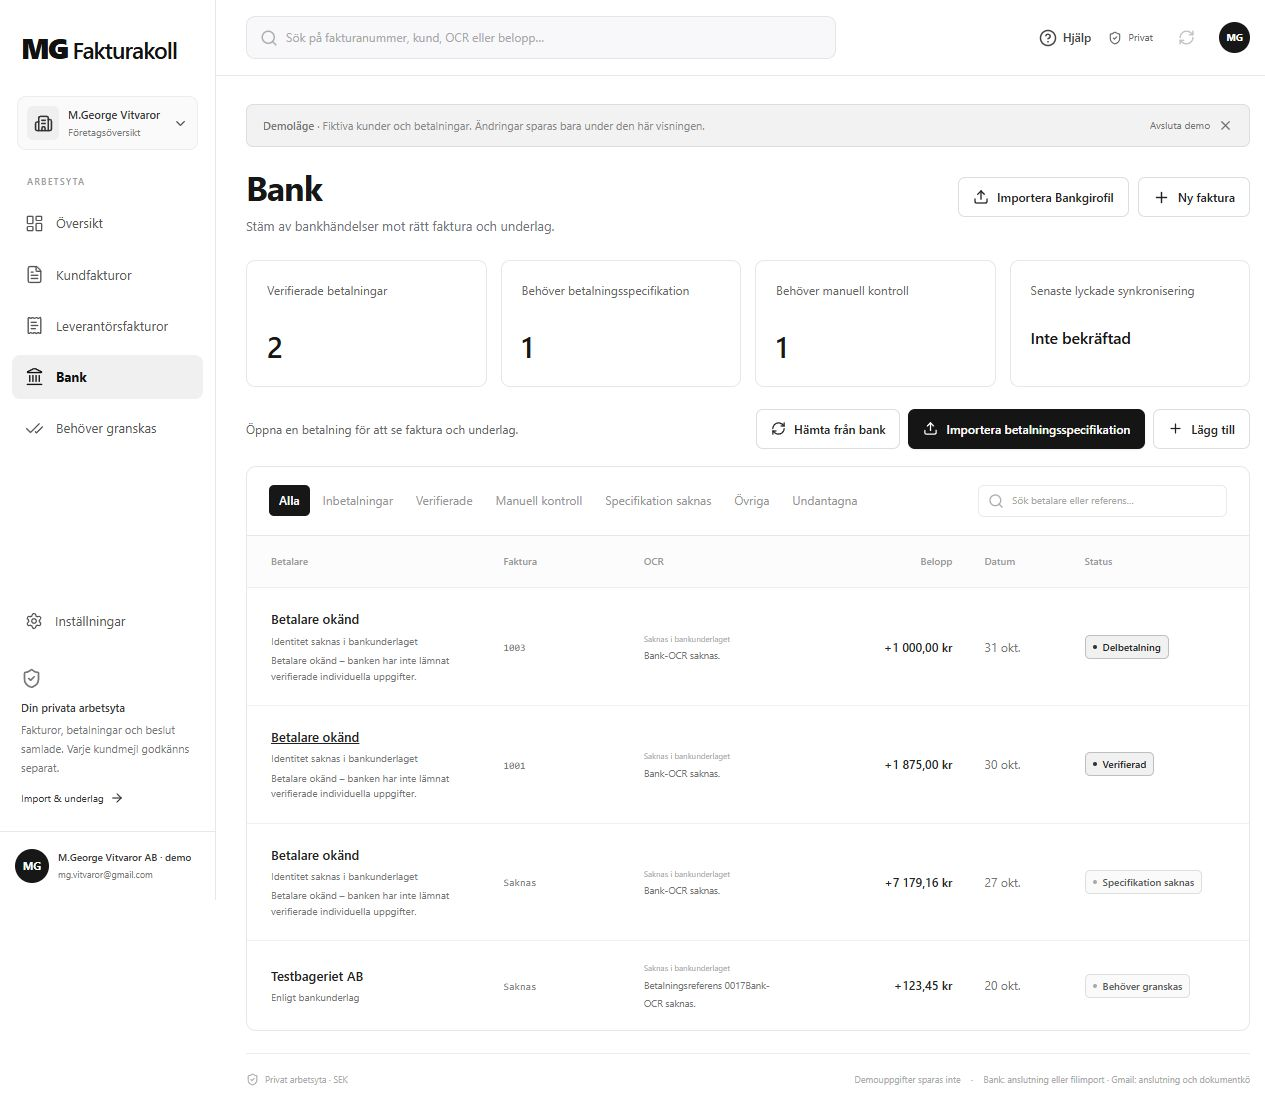
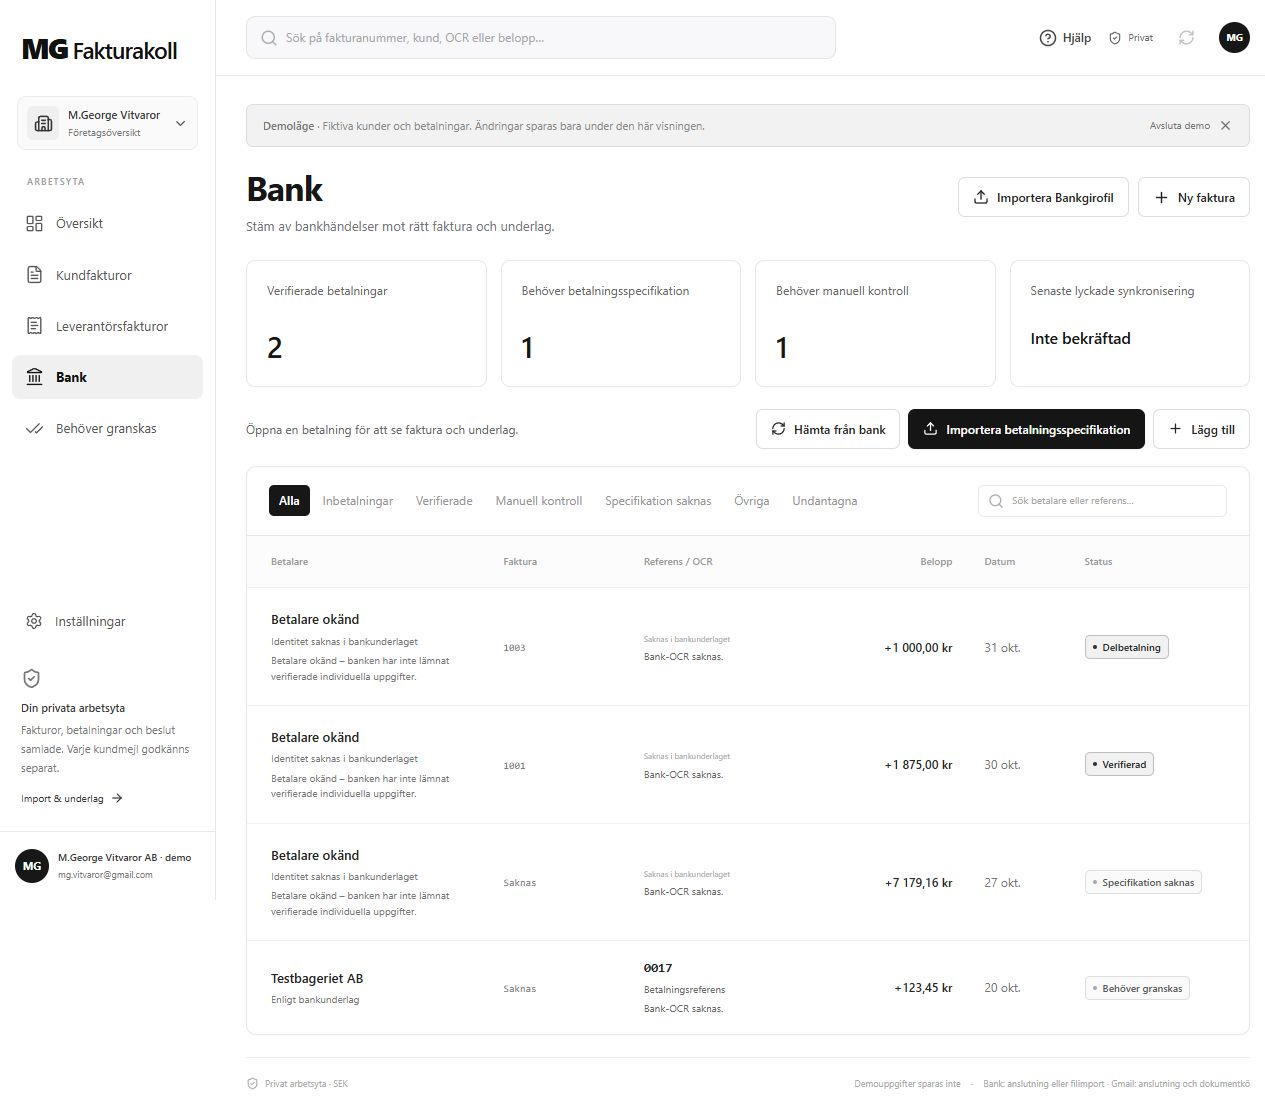
Make bank payment references prominent on desktop and mobile

diff --git a/sites/components/bank-payments.tsx b/sites/components/bank-payments.tsx
@@ -3,6 +3,9 @@ import {money,type State,type Transaction} from '@/lib/domain';
 import {bankPaymentCounts,bankPaymentView} from '@/lib/payment-presentation';
 type Props={state:State;transactions:Transaction[];candidates?:Record<string,{number:string;party?:string}[]>;open:(id:string)=>void};
 const date=(value:string)=>new Intl.DateTimeFormat('sv-SE',{day:'numeric',month:'short',timeZone:'Europe/Stockholm'}).format(new Date(value+'T12:00:00Z'));
+function BankReference({view}:{view:ReturnType<typeof bankPaymentView>}){
+ return <span className="bank-reference">{view.reference.value?<><strong className="mono">{view.reference.value}</strong><span className="bank-reference-label">{view.referenceLabel}</span></>:<span className="cell-note">Saknas i bankunderlaget</span>}{!view.reference.ocr&&<span className="bank-reference-note">Bank-OCR saknas.</span>}</span>;
+}
 export function BankPaymentSummary({state,lastSynced}:{state:State;lastSynced?:string}){
  const counts=bankPaymentCounts(state),synced=lastSynced&&Number.isFinite(Date.parse(lastSynced))?new Intl.DateTimeFormat('sv-SE',{dateStyle:'short',timeStyle:'short',timeZone:'Europe/Stockholm'}).format(new Date(lastSynced)):'Inte bekräftad';
  return <dl className="bank-summary" aria-label="Översikt över bankbetalningar"><div><dt>Verifierade betalningar</dt><dd>{counts.verified}</dd></div><div><dt>Behöver betalningsspecifikation</dt><dd>{counts.specifications}</dd></div><div><dt>Behöver manuell kontroll</dt><dd>{counts.review}</dd></div><div><dt>Senaste lyckade synkronisering</dt><dd className="bank-sync-time">{synced}</dd></div></dl>;
@@ -11,7 +14,7 @@ export default function BankPayments({state,transactions,candidates={},open}:Pro
  if(!transactions.length)return <p className="bank-filter-empty">Inga bankhändelser matchar ditt filter.</p>;
  const rows=transactions.map(t=>{const view=bankPaymentView(state,t,candidates[t.id]);return {t,view,payerNote:view.payerKnown?'':`${t.amount<0?'Mottagare':'Betalare'} okänd – banken har inte lämnat verifierade individuella uppgifter.`,invoiceNote:!view.reference.ocr&&!view.invoiceNumbers.length&&view.possible.length?`Fakturaförslag: ${view.possible.join(', ')} – inte verifierat av bankens OCR.`:''};});
  return <>
-  <div className="bank-desktop-list"><table className="bank-payments-table"><thead><tr><th>Betalare</th><th>Faktura</th><th>OCR</th><th className="numeric">Belopp</th><th>Datum</th><th>Status</th></tr></thead><tbody>{rows.map(({t,view,payerNote,invoiceNote})=><tr key={t.id}><td><button className="bank-open-payment" onClick={()=>open(t.id)} aria-label={`Visa betalning: ${view.payer}, ${money(t.amount)}, ${date(t.date)}`}><strong>{view.payer}</strong><small>{t.parentId?'Del av samlingsinsättning':view.payerKnown?'Enligt bankunderlag':t.verification?'Manuellt kompletterad':'Identitet saknas i bankunderlaget'}</small>{payerNote&&<small>{payerNote}</small>}</button></td><td><span className="mono">{view.invoice}</span>{invoiceNote&&<small>{invoiceNote}</small>}</td><td><span className={view.reference.ocr?'mono':'cell-note'}>{view.reference.ocr||'Saknas i bankunderlaget'}</span>{view.reference.value&&!view.reference.ocr&&<small>{view.referenceLabel} {view.reference.value}</small>}{!view.reference.ocr&&<small>Bank-OCR saknas.</small>}</td><td className="numeric bank-amount">{t.amount>0?'+':''}{money(t.amount)}</td><td>{date(t.date)}</td><td><span className={`bank-status ${view.verified?'is-verified':''}`}>{view.status}</span></td></tr>)}</tbody></table></div>
-  <div className="bank-mobile-list" aria-label="Bankbetalningar">{rows.map(({t,view,payerNote,invoiceNote})=><button className="bank-payment-card" key={t.id} onClick={()=>open(t.id)}><span className="bank-card-heading"><strong>{view.payer}</strong><strong>{t.amount>0?'+':''}{money(t.amount)}</strong></span>{payerNote&&<small>{payerNote}</small>}<span className="bank-card-reference">Faktura {view.invoice}{invoiceNote&&<small>{invoiceNote}</small>}<small>OCR {view.reference.ocr||'Saknas i bankunderlaget'}</small>{view.reference.value&&!view.reference.ocr&&<small>{view.referenceLabel} {view.reference.value}</small>}{!view.reference.ocr&&<small>Bank-OCR saknas.</small>}</span><span className="bank-payment-footer"><time dateTime={t.date}>{date(t.date)}</time><span className={`bank-status ${view.verified?'is-verified':''}`}>{view.status}</span></span></button>)}</div>
+  <div className="bank-desktop-list"><table className="bank-payments-table"><thead><tr><th>Betalare</th><th>Faktura</th><th>Referens / OCR</th><th className="numeric">Belopp</th><th>Datum</th><th>Status</th></tr></thead><tbody>{rows.map(({t,view,payerNote,invoiceNote})=><tr key={t.id}><td><button className="bank-open-payment" onClick={()=>open(t.id)} aria-label={`Visa betalning: ${view.payer}, ${money(t.amount)}, ${date(t.date)}`}><strong>{view.payer}</strong><small>{t.parentId?'Del av samlingsinsättning':view.payerKnown?'Enligt bankunderlag':t.verification?'Manuellt kompletterad':'Identitet saknas i bankunderlaget'}</small>{payerNote&&<small>{payerNote}</small>}</button></td><td><span className="mono">{view.invoice}</span>{invoiceNote&&<small>{invoiceNote}</small>}</td><td><BankReference view={view}/></td><td className="numeric bank-amount">{t.amount>0?'+':''}{money(t.amount)}</td><td>{date(t.date)}</td><td><span className={`bank-status ${view.verified?'is-verified':''}`}>{view.status}</span></td></tr>)}</tbody></table></div>
+  <div className="bank-mobile-list" aria-label="Bankbetalningar">{rows.map(({t,view,payerNote,invoiceNote})=><button className="bank-payment-card" key={t.id} onClick={()=>open(t.id)}><span className="bank-card-heading"><strong>{view.payer}</strong><strong>{t.amount>0?'+':''}{money(t.amount)}</strong></span>{payerNote&&<small>{payerNote}</small>}<span className="bank-card-reference">Faktura {view.invoice}{invoiceNote&&<small>{invoiceNote}</small>}<BankReference view={view}/></span><span className="bank-payment-footer"><time dateTime={t.date}>{date(t.date)}</time><span className={`bank-status ${view.verified?'is-verified':''}`}>{view.status}</span></span></button>)}</div>
  </>;
 }

diff --git a/sites/app/globals.css b/sites/app/globals.css
@@ -39,7 +39,8 @@ main{padding:28px 30px 0;max-width:1760px}h1{font-size:34px;line-height:1.18;fon
 
 .bank-raw-data{white-space:pre-wrap;overflow-wrap:anywhere;max-height:28rem;overflow:auto;font-size:.78rem;background:#f5f5f5;padding:1rem;border-radius:.5rem;}
 
-/* Bank payments: five desktop columns and a card view on small screens. */
+/* Bank payments: six desktop columns and a card view on small screens. */
+.bank-reference{display:grid;gap:4px}.bank-reference>.mono{font-size:13px;line-height:1.4;color:#202020;font-weight:600}.bank-reference-label,.bank-reference-note{font-size:10px;line-height:1.5;color:#666}.bank-card-reference>.bank-reference{margin-top:8px}
 .bank-summary{display:grid;grid-template-columns:repeat(4,minmax(0,1fr));gap:14px;margin:0 0 22px}.bank-summary>div{background:#fff;border:1px solid var(--line);border-radius:9px;padding:20px;min-width:0}.bank-summary dt{font-size:12px;color:#666;min-height:37px;line-height:1.5}.bank-summary dd{font-size:29px;line-height:1.3;font-weight:600;letter-spacing:-.8px;margin:10px 0 0;color:#171717}.bank-summary .bank-sync-time{font-size:16px;letter-spacing:-.2px;white-space:normal}.bank-actions{display:flex;align-items:center;gap:8px;flex-wrap:wrap;margin:0 0 17px}.bank-actions>p{font-size:12px;color:#666;margin-right:auto}.bank-payment-panel .table-toolbar{align-items:flex-start;flex-wrap:wrap}.bank-payment-panel .filter-tabs{flex-wrap:wrap}.bank-desktop-list{width:100%;overflow:hidden}.bank-payments-table{white-space:normal;table-layout:fixed}.bank-payments-table th,.bank-payments-table td{padding:18px 16px;vertical-align:middle}.bank-payments-table th:first-child,.bank-payments-table td:first-child{width:24%;padding-left:24px}.bank-payments-table th:nth-child(2){width:14%}.bank-payments-table th:nth-child(3){width:16%}.bank-payments-table th:nth-child(4){width:18%}.bank-payments-table th:nth-child(5){width:10%}.bank-payments-table th:nth-child(6){width:18%}.bank-payments-table td{overflow-wrap:anywhere}.bank-open-payment{display:block;text-align:left;width:100%;padding:3px 0;border-radius:4px}.bank-open-payment strong{display:block;font-size:13px;color:#202020;font-weight:600}.bank-open-payment small{display:block;font-size:10px;color:#777;margin-top:4px}.bank-open-payment:hover strong{text-decoration:underline}.bank-payments-table .bank-amount{font-weight:600;white-space:nowrap;color:#252525}.bank-status{display:inline-flex;align-items:center;gap:6px;max-width:100%;border:1px solid #dedede;border-radius:5px;padding:4px 7px;font-size:10px;font-weight:500;line-height:1.4;color:#555;background:#fafafa;white-space:normal}.bank-status:before{content:'';width:4px;height:4px;border-radius:50%;background:#aaa;flex-shrink:0}.bank-status.is-verified{color:#222;border-color:#bfbfbf;background:#f1f1f1}.bank-status.is-verified:before{background:#333}.bank-mobile-list{display:none}.bank-filter-empty{padding:28px 24px;color:#666;font-size:13px}.bank-transaction-hero{justify-content:space-between}.bank-primary-details dd{overflow-wrap:anywhere}.bank-evidence{margin:24px 0;padding-top:20px;border-top:1px solid #e6e6e6}.bank-evidence>summary{font-size:13px;font-weight:600;cursor:pointer;color:#333}.bank-evidence[open]>summary{margin-bottom:20px}.bank-evidence p{font-size:12px;line-height:1.7;color:#666;margin:12px 0}.bank-evidence .review-analysis{margin:18px 0 0}.bank-invoice-options>div{padding:12px 0;border-top:1px solid #e6e6e6;margin-top:12px}.bank-invoice-options>div>strong{font-size:12px}.bank-invoice-options p{font-size:12px}.bank-evidence pre{max-width:100%;overflow:auto;white-space:pre-wrap;overflow-wrap:anywhere}
 /* Payment cards must not inherit the connection card footer's colour/layout. */
 .bank-payment-card .bank-payment-footer{background:transparent;border:0;padding:0;margin:0;display:flex;flex-direction:row;align-items:center;justify-content:space-between;gap:12px}
